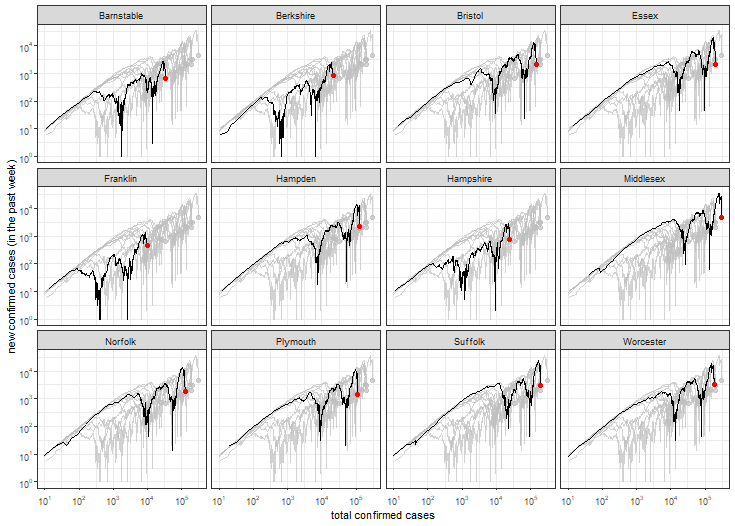
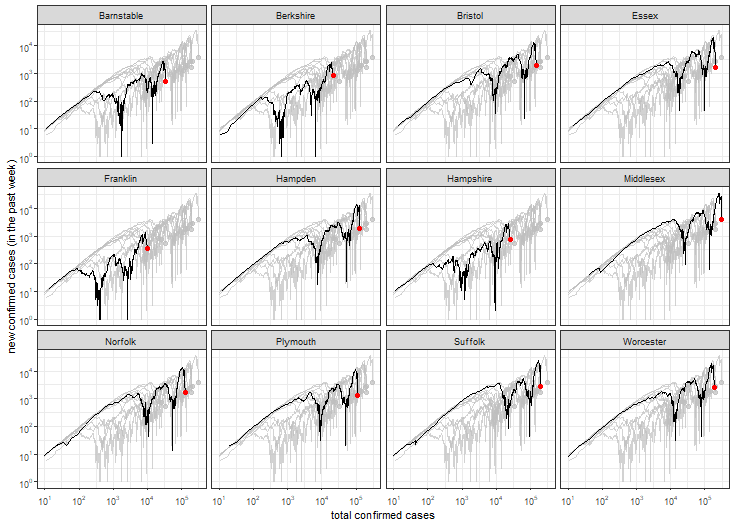
updated repo

diff --git a/README.md b/README.md
@@ -1,4 +1,4 @@
-Trends in COVID-19 for counties in the U.S. state of Massachusetts (updated on 2022-02-08)
+Trends in COVID-19 for counties in the U.S. state of Massachusetts (updated on 2022-02-10)
 ==========================================================================================
 
 ![trends in covid-19 cases by county in the U.S. state of
